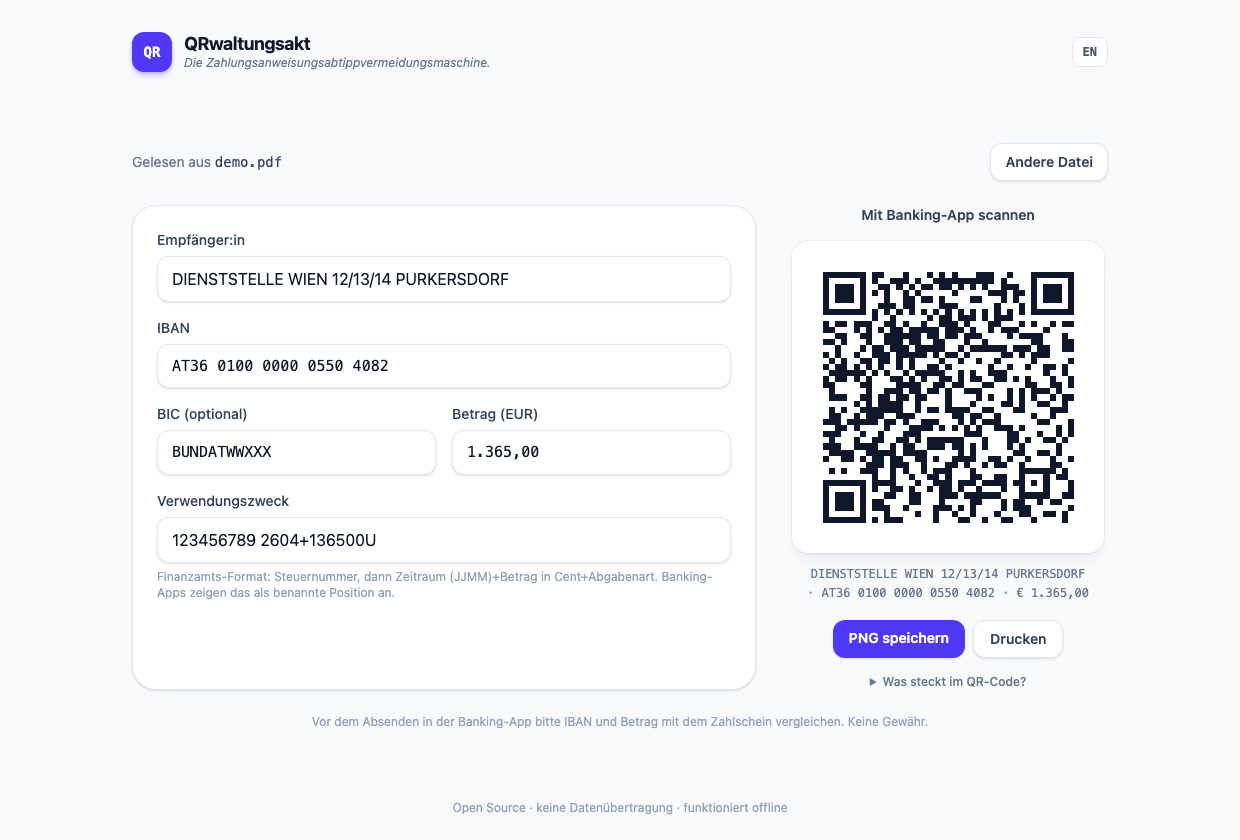
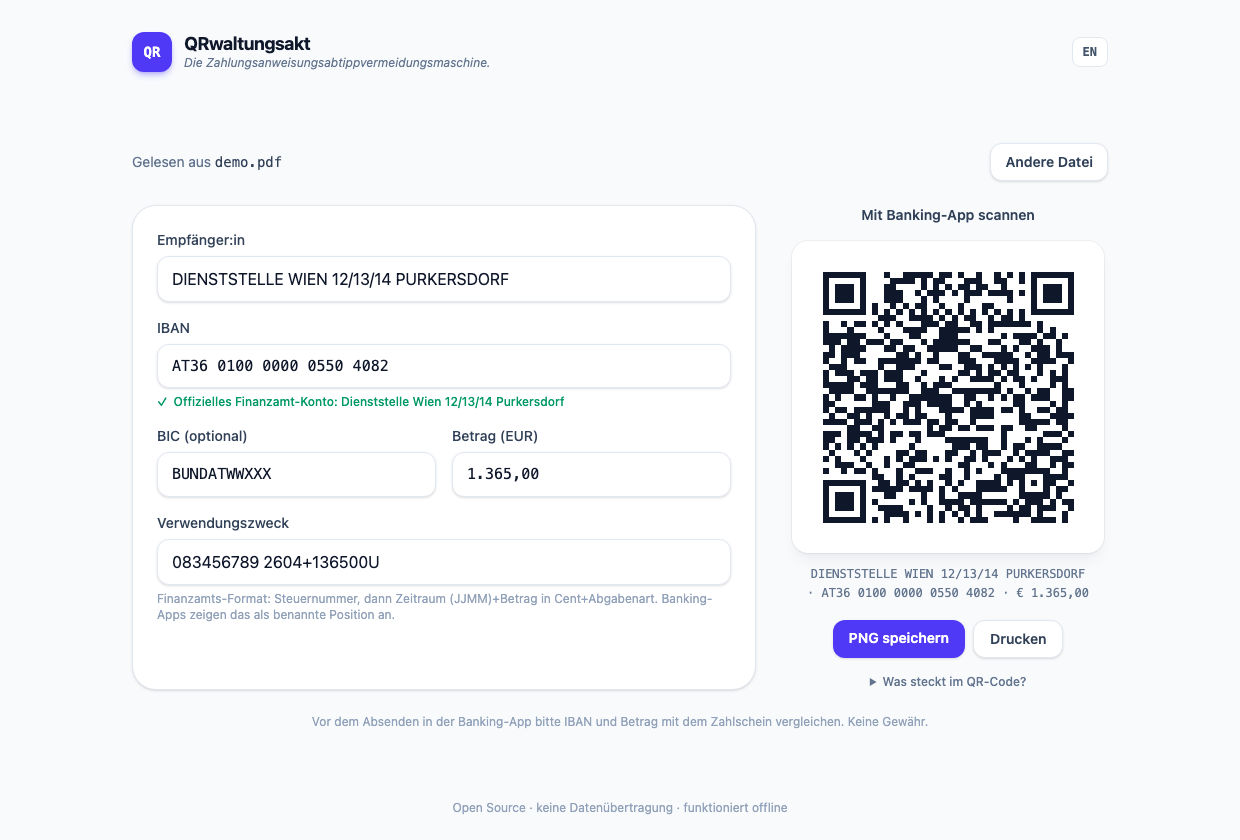
Offline payee verification against the official BMF account directory
Embeds all 36 official Finanzamt bank accounts (generated from the
BMF 'Steuerzahlungen' page via scripts/generate-finanzamt-accounts.mjs)
and checks the IBAN locally, without any network call:

- green: official account whose Dienststelle matches the tax number
  in the remittance (cross-check via StNr prefix = office number)
- amber: official account, but a different Dienststelle than the StNr
- red: not a known Finanzamt IBAN per the BMF directory – the
  manipulated-PDF scenario from SECURITY.md

The authoritative name/IBAN check (EU Verification of Payee) still
happens at the user's bank on submission; this is the offline first
line of defense. All three states verified in the browser.

Changed region(s): [[0.1226, 0.4643, 0.5823, 0.7429], [0.6435, 0.3095, 0.8887, 0.619]]

diff --git a/src/lib/finanzamtAccounts.ts b/src/lib/finanzamtAccounts.ts
@@ -1,0 +1,62 @@
+// AUTO-GENERATED by scripts/generate-finanzamt-accounts.mjs – do not edit by hand.
+// Source: BMF "Steuerzahlungen" (bmf.gv.at), 36 official Finanzamt accounts.
+import { normalizeIban } from './iban'
+
+export interface FinanzamtAccount {
+  /** Dienststellen number – also the first two digits of tax numbers it manages. */
+  office: string
+  name: string
+  iban: string
+}
+
+export const FINANZAMT_ACCOUNTS: FinanzamtAccount[] = [
+  { office: "11", name: "Finanzamt für Großbetriebe", iban: "AT880100000005504116" },
+  { office: "37", name: "Amt für Betrugsbekämpfung", iban: "AT090100000005504374" },
+  { office: "03", name: "Dienststelle Wien 3/6/7/11/15 Schwechat Gerasdorf", iban: "AT870100000005504037" },
+  { office: "06", name: "Dienststelle Wien 8/16/17", iban: "AT260100000005504068" },
+  { office: "07", name: "Dienststelle Wien 4/5/9/10/18/19 Klosterneuburg", iban: "AT310100000005504075" },
+  { office: "08", name: "Dienststelle Wien 12/13/14 Purkersdorf", iban: "AT360100000005504082" },
+  { office: "09", name: "Dienststelle Wien 1/23", iban: "AT620100000005504099" },
+  { office: "10", name: "Dienststelle Sonderzuständigkeiten: für Private, Unternehmen und Behörden hinsichtlich der Rechtsgeschäftsgebühren hinsichtlich der Eingaben beim Bundesverwaltungsgericht, beim Bundesfinanzgericht und bei den Landesverwaltungsgerichten", iban: "AT830100000005504109" },
+  { office: "10", name: "Dienststelle Sonderzuständigkeiten: ausschließlich für Behörden hinsichtlich der festen Gebühren", iban: "AT560100000005804713" },
+  { office: "12", name: "Dienststelle Wien 2/20/21/22", iban: "AT930100000005504123" },
+  { office: "15", name: "Dienststelle Amstetten Melk Scheibbs", iban: "AT320100000005504154" },
+  { office: "16", name: "Dienststelle Baden Mödling", iban: "AT370100000005504161" },
+  { office: "22", name: "Dienststelle Weinviertel", iban: "AT280100000005504226" },
+  { office: "23", name: "Dienststelle Waldviertel", iban: "AT330100000005504233" },
+  { office: "29", name: "Dienststelle Niederösterreich Mitte", iban: "AT080100000005504295" },
+  { office: "38", name: "Dienststelle Bruck Eisenstadt Oberwart", iban: "AT140100000005504381" },
+  { office: "41", name: "Dienststelle Braunau Ried Schärding", iban: "AT540100000005524419" },
+  { office: "46", name: "Dienststelle Linz", iban: "AT030100000005524464" },
+  { office: "51", name: "Dienststelle Kirchdorf Perg Steyr", iban: "AT650100000005524512" },
+  { office: "52", name: "Dienststelle Freistadt Rohrbach Urfahr", iban: "AT910100000005524529" },
+  { office: "53", name: "Dienststelle Gmunden Vöcklabruck", iban: "AT960100000005524536" },
+  { office: "54", name: "Dienststelle Grieskirchen Wels", iban: "AT040100000005524543" },
+  { office: "57", name: "Dienststelle Klagenfurt St. Veit Wolfsberg", iban: "AT920100000005564572" },
+  { office: "61", name: "Dienststelle Spittal Villach", iban: "AT520100000005564613" },
+  { office: "67", name: "Dienststelle Oststeiermark", iban: "AT070100000005534674" },
+  { office: "68", name: "Dienststelle Graz-Stadt", iban: "AT120100000005534681" },
+  { office: "69", name: "Dienststelle Steiermark Mitte", iban: "AT380100000005534698" },
+  { office: "71", name: "Dienststelle Judenburg Liezen", iban: "AT640100000005534715" },
+  { office: "72", name: "Dienststelle Deutschlandsberg Leibnitz Voitsberg", iban: "AT690100000005534722" },
+  { office: "81", name: "Dienststelle Innsbruck", iban: "AT310100000005544815" },
+  { office: "83", name: "Dienststelle Tirol Ost", iban: "AT620100000005544839" },
+  { office: "84", name: "Dienststelle Landeck Reutte", iban: "AT670100000005544846" },
+  { office: "90", name: "Dienststelle St. Johann Tamsweg Zell am See", iban: "AT900100000005554908" },
+  { office: "91", name: "Dienststelle Salzburg-Stadt", iban: "AT950100000005554915" },
+  { office: "93", name: "Dienststelle Salzburg-Land", iban: "AT290100000005554939" },
+  { office: "98", name: "Dienststelle Vorarlberg", iban: "AT630100000005574988" },
+]
+
+const BY_IBAN = new Map(FINANZAMT_ACCOUNTS.map((a) => [a.iban, a]))
+
+/** Offline "Verification of Payee" against the official BMF directory. */
+export function findFinanzamtAccount(iban: string): FinanzamtAccount | undefined {
+  return BY_IBAN.get(normalizeIban(iban))
+}
+
+/** "08 345/6789" or "123456789 2604+…" → Dienststellen number "08". */
+export function officeFromRemittance(remittance: string): string | undefined {
+  const m = /(?:StNr\.?:?\s*|^\s*)(\d{2})[\s-]?\d{3}\/?\d{4}\b/.exec(remittance)
+  return m?.[1]
+}

diff --git a/src/App.tsx b/src/App.tsx
@@ -5,7 +5,9 @@ import { QrPanel } from './components/QrPanel'
 import { useI18n, type StringKey } from './i18n'
 import { buildEpcPayload, validateEpc, type EpcInput } from './lib/epc'
 import { parseAmountToCents, centsToDisplay } from './lib/amount'
-import { formatIban } from './lib/iban'
+import { formatIban, isValidIban } from './lib/iban'
+import { findFinanzamtAccount, officeFromRemittance } from './lib/finanzamtAccounts'
+import type { IbanCheck } from './components/PaymentForm'
 import { extractTextItems } from './lib/pdf'
 import { parsePayment, reconstructLines, type ParseWarning } from './lib/parser'
 
@@ -63,6 +65,19 @@ export default function App() {
       payload: Object.keys(errors).length === 0 ? buildEpcPayload(epcInput) : null,
     }
   }, [values])
+
+  // Offline payee verification against the official BMF account directory
+  const ibanCheck: IbanCheck = useMemo(() => {
+    if (!isValidIban(values.iban)) return null
+    const account = findFinanzamtAccount(values.iban)
+    if (!account) return { tone: 'alert', text: t('ibanUnknown') }
+    const office = officeFromRemittance(values.remittance)
+    if (office && office !== account.office) {
+      return { tone: 'warn', text: `${t('ibanOfficeMismatch')} (${account.name})` }
+    }
+    return { tone: 'ok', text: `${t('ibanOfficial')}: ${account.name}` }
+    // eslint-disable-next-line react-hooks/exhaustive-deps -- t is stable per lang
+  }, [values.iban, values.remittance, lang])
 
   const summary = `${values.name} · ${values.iban} · € ${values.amount}`
 
@@ -130,7 +145,12 @@ export default function App() {
 
             <div className="grid gap-8 md:grid-cols-[1fr_auto]">
               <section className="rounded-3xl border border-slate-200 bg-white p-6 shadow-sm dark:border-slate-800 dark:bg-slate-900">
-                <PaymentForm values={values} errors={errors} onChange={setValues} />
+                <PaymentForm
+                  values={values}
+                  errors={errors}
+                  onChange={setValues}
+                  ibanCheck={ibanCheck}
+                />
               </section>
               <section className="flex flex-col items-center justify-center md:w-80">
                 <h2 className="mb-4 text-sm font-semibold text-slate-700 dark:text-slate-300">

diff --git a/src/components/PaymentForm.tsx b/src/components/PaymentForm.tsx
@@ -9,10 +9,13 @@ export interface FormValues {
   remittance: string
 }
 
+export type IbanCheck = { tone: 'ok' | 'warn' | 'alert'; text: string } | null
+
 interface Props {
   values: FormValues
   errors: EpcErrors
   onChange: (values: FormValues) => void
+  ibanCheck?: IbanCheck
 }
 
 const ERROR_KEYS: Record<string, StringKey> = {
@@ -26,7 +29,7 @@ const ERROR_KEYS: Record<string, StringKey> = {
   'remittance.tooLong': 'errRemittanceLong',
 }
 
-export function PaymentForm({ values, errors, onChange }: Props) {
+export function PaymentForm({ values, errors, onChange, ibanCheck }: Props) {
   const { t } = useI18n()
 
   const set = (field: keyof FormValues) => (value: string) =>
@@ -46,14 +49,30 @@ export function PaymentForm({ values, errors, onChange }: Props) {
         error={errorText('name')}
         maxLength={70}
       />
-      <Field
-        label={t('fieldIban')}
-        value={values.iban}
-        onChange={set('iban')}
-        error={errorText('iban')}
-        mono
-        placeholder="AT.. .... .... .... ...."
-      />
+      <div className="flex flex-col gap-1.5">
+        <Field
+          label={t('fieldIban')}
+          value={values.iban}
+          onChange={set('iban')}
+          error={errorText('iban')}
+          mono
+          placeholder="AT.. .... .... .... ...."
+        />
+        {ibanCheck && !errorText('iban') && (
+          <p
+            className={`flex items-start gap-1.5 text-xs font-medium ${
+              ibanCheck.tone === 'ok'
+                ? 'text-emerald-600 dark:text-emerald-400'
+                : ibanCheck.tone === 'warn'
+                  ? 'text-amber-600 dark:text-amber-400'
+                  : 'text-red-600 dark:text-red-400'
+            }`}
+          >
+            <span aria-hidden>{ibanCheck.tone === 'ok' ? '✓' : '⚠'}</span>
+            {ibanCheck.text}
+          </p>
+        )}
+      </div>
       <div className="grid grid-cols-2 gap-4">
         <Field
           label={t('fieldBic')}

diff --git a/src/lib/finanzamtAccounts.test.ts b/src/lib/finanzamtAccounts.test.ts
@@ -1,0 +1,42 @@
+import { describe, expect, it } from 'vitest'
+import {
+  FINANZAMT_ACCOUNTS,
+  findFinanzamtAccount,
+  officeFromRemittance,
+} from './finanzamtAccounts'
+import { isFinanzamtIban, isValidIban } from './iban'
+
+describe('official BMF account directory', () => {
+  it('contains the full directory with structurally valid IBANs', () => {
+    expect(FINANZAMT_ACCOUNTS.length).toBeGreaterThanOrEqual(35)
+    for (const account of FINANZAMT_ACCOUNTS) {
+      expect(isValidIban(account.iban), `${account.name}: ${account.iban}`).toBe(true)
+      expect(isFinanzamtIban(account.iban), `${account.name}: ${account.iban}`).toBe(true)
+      expect(account.office).toMatch(/^\d{2}$/)
+    }
+  })
+
+  it('verifies a known Finanzamt IBAN offline (payee verification)', () => {
+    const account = findFinanzamtAccount('AT36 0100 0000 0550 4082')
+    expect(account?.office).toBe('08')
+    expect(account?.name).toBe('Dienststelle Wien 12/13/14 Purkersdorf')
+  })
+
+  it('returns undefined for IBANs not in the directory', () => {
+    expect(findFinanzamtAccount('AT79 2011 1000 1234 5678')).toBeUndefined()
+    expect(findFinanzamtAccount('')).toBeUndefined()
+  })
+})
+
+describe('officeFromRemittance', () => {
+  it('extracts the Dienststellen number from both remittance formats', () => {
+    expect(officeFromRemittance('123456789 2604+136500U')).toBe('12')
+    expect(officeFromRemittance('StNr. 08 345/6789 / U 04/2026')).toBe('08')
+    expect(officeFromRemittance('StNr: 11-999/9118')).toBe('11')
+  })
+
+  it('does not misread tax segments as office numbers', () => {
+    expect(officeFromRemittance('2604+136500U')).toBeUndefined()
+    expect(officeFromRemittance('')).toBeUndefined()
+  })
+})

diff --git a/src/i18n.tsx b/src/i18n.tsx
@@ -38,6 +38,11 @@ const STRINGS = {
       'Die Beträge auf dem Zahlschein widersprechen sich – bitte genau prüfen.',
     'warn.noTaxNumber': 'Keine Steuernummer gefunden – bitte Verwendungszweck prüfen.',
     'warn.noRecipientName': 'Kein Empfängername gefunden – bitte manuell eintragen.',
+    ibanOfficial: 'Offizielles Finanzamt-Konto',
+    ibanOfficeMismatch:
+      'Offizielles Finanzamt-Konto, aber die Steuernummer im Verwendungszweck gehört zu einer anderen Dienststelle – bitte prüfen',
+    ibanUnknown:
+      'Achtung: laut BMF-Verzeichnis kein offizielles Finanzamt-Konto – IBAN genau prüfen!',
     qrTitle: 'Mit Banking-App scannen',
     qrInvalid: 'QR-Code erscheint, sobald alle Felder gültig sind.',
     download: 'PNG speichern',
@@ -80,6 +85,11 @@ const STRINGS = {
     'warn.amountMismatch': 'The amounts on the slip contradict each other – please double-check.',
     'warn.noTaxNumber': 'No tax number found – please check the payment reference.',
     'warn.noRecipientName': 'No recipient name found – please enter it manually.',
+    ibanOfficial: 'Official Finanzamt account',
+    ibanOfficeMismatch:
+      'Official Finanzamt account, but the tax number in the payment reference belongs to a different office – please double-check',
+    ibanUnknown:
+      'Warning: not an official Finanzamt account per the BMF directory – verify the IBAN carefully!',
     qrTitle: 'Scan with your banking app',
     qrInvalid: 'The QR code appears once all fields are valid.',
     download: 'Save PNG',

diff --git a/README.md b/README.md
@@ -69,6 +69,9 @@ npm run preview  # Build lokal serven
   `src/lib/taxCodes.ts` aus dem offiziellen BMF
   "Verzeichnis der Abgabenarten" (bmf.gv.at) – aktuell 187 Codes inkl.
   Zeitraumformat (MM/JJJJ, KVJ, JJJJ, …).
+- `node scripts/generate-finanzamt-accounts.mjs` regeneriert
+  `src/lib/finanzamtAccounts.ts` aus der offiziellen BMF-Liste der
+  Finanzamtskonten (Seite "Steuerzahlungen") – aktuell 36 Konten.
 
 ## Wie es funktioniert
 
@@ -90,7 +93,14 @@ npm run preview  # Build lokal serven
    (`StNr. … / U 04/2026`) zurück. Hinweis: Die SEPA-End-to-End-Referenz, in
    der die Steuernummer bei nativen Finanzamtszahlungen zusätzlich reist, ist
    per EPC-QR-Code nicht setzbar.
-3. **Editierbares Formular:** Alle erkannten Werte lassen sich vor dem
+3. **Offline-Empfängerprüfung** (`src/lib/finanzamtAccounts.ts`): Die IBAN
+   wird gegen das offizielle BMF-Verzeichnis aller Finanzamtskonten geprüft –
+   lokal, ohne Netzwerk. Grün: offizielles Konto, dessen Dienststelle zur
+   Steuernummer passt. Gelb: offizielles Konto, aber andere Dienststelle.
+   Rot: keine bekannte Finanzamt-IBAN (z. B. bei einer manipulierten PDF).
+   Die finale Name/IBAN-Prüfung (Verification of Payee) macht zusätzlich
+   deine Bank beim Absenden.
+4. **Editierbares Formular:** Alle erkannten Werte lassen sich vor dem
    Scannen prüfen und korrigieren. Bei Unklarheiten warnt die App, statt
    stillschweigend zu raten.
 
